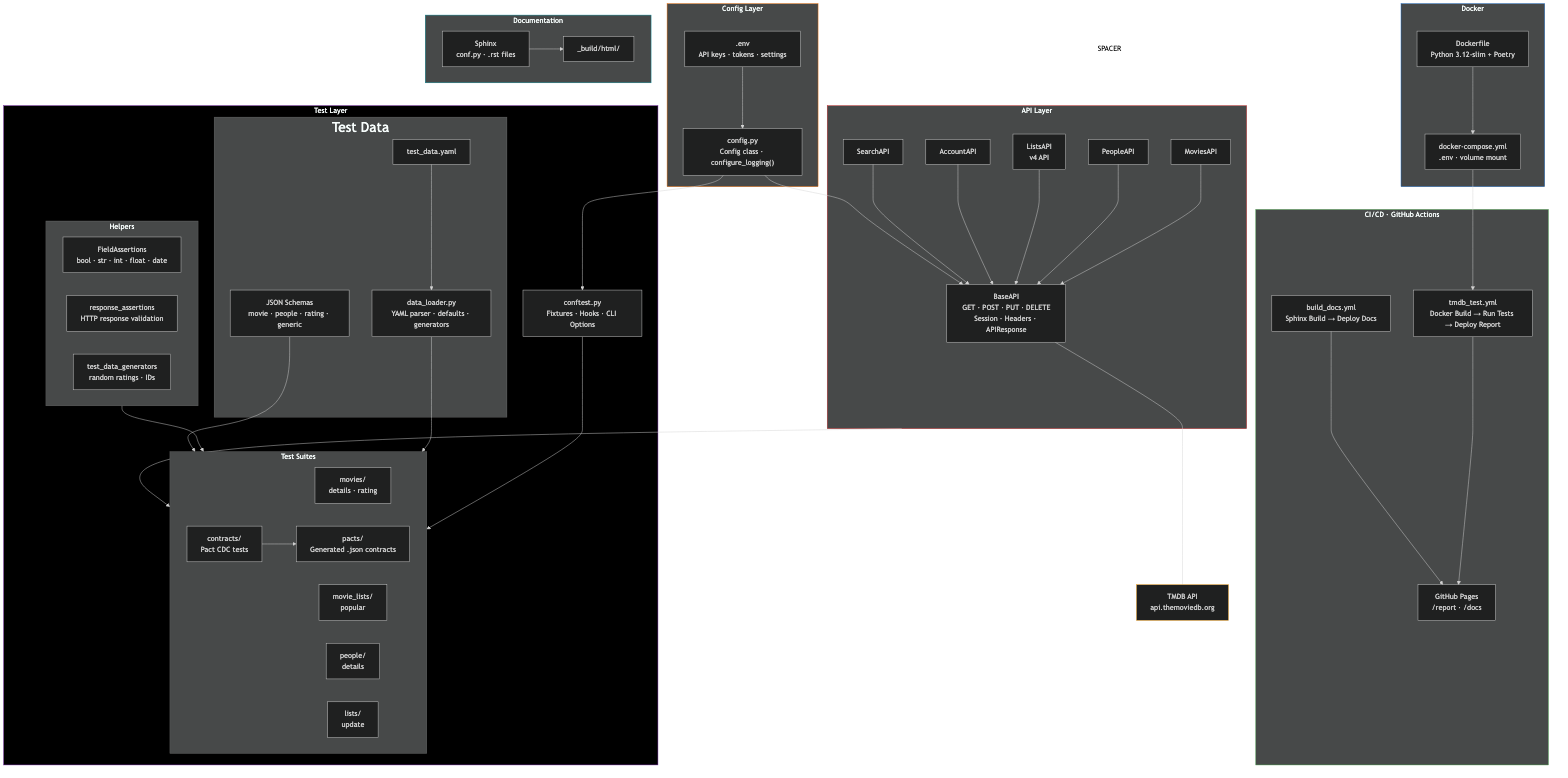
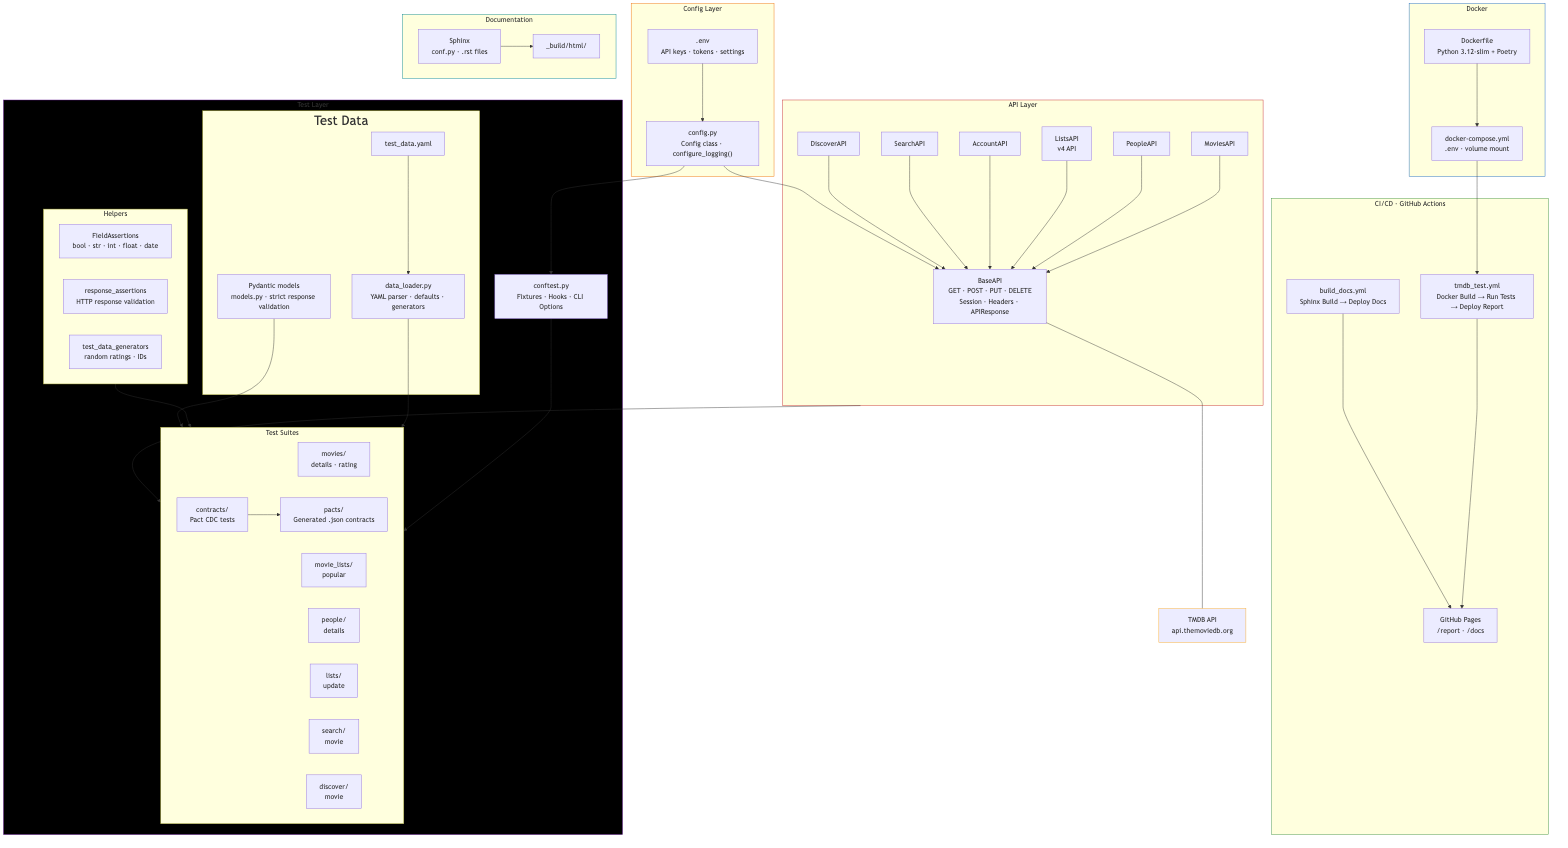
sync docs, diagram, and skills with discover endpoint
Add DiscoverAPI / discover_api / the discover test suite to CLAUDE.md,
the README feature list and project tree, the Sphinx api/tests pages,
and the architecture diagram (regenerated PNG).

Also close pre-existing doc gaps found during the sync: SearchAPI was
missing from the review-tests skill's endpoint-class list and the
search/ suite from the diagram; the diagram's stale "JSON Schemas"
label now reads Pydantic models, and the orphaned SPACER style that
rendered floating text is removed.

diff --git a/CLAUDE.md b/CLAUDE.md
@@ -43,12 +43,12 @@ All runtime config comes from environment variables loaded from `.env` (gitignor
 
 Layered, with a strict separation between the API client and the tests:
 
-**`api/`** — `BaseAPI` (`base_api.py`) owns the `requests.Session`, auth header (Bearer token from `Config`), URL construction (`{base_url}/{api_version}/{endpoint}`), and the four HTTP verbs. Every verb returns a standardized `APIResponse` dataclass (`.data`, `.status_code`, `.url`, `.elapsed_seconds`, etc.) — tests assert against this object, never a raw `requests.Response`. Endpoint classes (`MoviesAPI`, `PeopleAPI`, `ListsAPI`, `AccountAPI`, `SearchAPI`) subclass `BaseAPI`, set a `_sub_path` class attr, and add thin domain methods that call `self.get/post/put/delete`. To add an endpoint: add a method to the relevant class (or a new subclass) — do not put HTTP logic in tests.
+**`api/`** — `BaseAPI` (`base_api.py`) owns the `requests.Session`, auth header (Bearer token from `Config`), URL construction (`{base_url}/{api_version}/{endpoint}`), and the four HTTP verbs. Every verb returns a standardized `APIResponse` dataclass (`.data`, `.status_code`, `.url`, `.elapsed_seconds`, etc.) — tests assert against this object, never a raw `requests.Response`. Endpoint classes (`MoviesAPI`, `PeopleAPI`, `ListsAPI`, `AccountAPI`, `SearchAPI`, `DiscoverAPI`) subclass `BaseAPI`, set a `_sub_path` class attr, and add thin domain methods that call `self.get/post/put/delete`. To add an endpoint: add a method to the relevant class (or a new subclass) — do not put HTTP logic in tests.
 
 **`config/config.py`** — loads `.env`, exposes the `Config` class, and configures Loguru. `configure_logging()` is re-invoked from `pytest_configure` so the CLI log-level flag takes effect before test modules import.
 
 **`tests/conftest.py`** — the wiring hub. Provides:
-- Dedicated per-client fixtures — `movies_api`, `people_api`, `lists_api`, `search_api` — each returns a fresh, type-annotated endpoint client (e.g. `MoviesAPI()`); a test declares the one it needs in its signature. (`AccountAPI` has no fixture; it's used directly in `tests/helpers/test_data_generators.py`.)
+- Dedicated per-client fixtures — `movies_api`, `people_api`, `lists_api`, `search_api`, `discover_api` — each returns a fresh, type-annotated endpoint client (e.g. `MoviesAPI()`); a test declares the one it needs in its signature. (`AccountAPI` has no fixture; it's used directly in `tests/helpers/test_data_generators.py`.)
 - `load_schema` fixture: maps a schema name → a **Pydantic model** in `tests/schemas/models.py` (despite the JSON files in `tests/schemas/`, validation is done with `model.model_validate(response.data)`).
 - `_store_test_name` (autouse): injects `self._test_name` into class-based tests for assertion messages.
 - Hooks for AI failure analysis (`pytest_runtest_makereport`) and Allure/HTML report customization and `environment.properties` writing (`pytest_sessionfinish`).

diff --git a/README.md b/README.md
@@ -56,7 +56,7 @@ Each step is expanded in [Prerequisites](#prerequisites), [Installation](#instal
 - Data-driven testing with per-section YAML test data and cached dynamic generators
 - Automatic retries for flaky live-API latency via pytest-rerunfailures
 - Reusable HTTP response assertion helpers (status, method, content-type, response time)
-- Dedicated per-client pytest fixtures (`movies_api`, `people_api`, `lists_api`, `search_api`)
+- Dedicated per-client pytest fixtures (`movies_api`, `people_api`, `lists_api`, `search_api`, `discover_api`)
 - Structured logging with [Loguru](https://github.com/Delgan/loguru) (configurable level & file output)
 - Configurable environment-based settings via `.env`
 - AI-powered test failure analysis using open-source LLMs via [Groq](https://groq.com/) (opt-in)
@@ -227,7 +227,8 @@ mdb_api_layer/
 │   ├── people_api.py           # People endpoint implementation
 │   ├── lists_api.py            # Lists endpoint implementation (v4 API)
 │   ├── account_api.py          # Account endpoint implementation
-│   └── search_api.py           # Search endpoint implementation
+│   ├── search_api.py           # Search endpoint implementation
+│   └── discover_api.py         # Discover endpoint implementation
 ├── config/
 │   └── config.py               # Environment configuration & Loguru logging setup
 ├── tests/
@@ -261,6 +262,8 @@ mdb_api_layer/
 │   │   └── test_update.py      # Lists update tests (v4 API)
 │   ├── search/
 │   │   └── test_movie.py       # Movie search integration tests
+│   ├── discover/
+│   │   └── test_movie.py       # Movie discovery integration tests
 │   ├── pacts/
 │   │   └── *.json              # Generated Pact contract files
 │   └── schemas/

diff --git a/.claude/skills/review-tests/SKILL.md b/.claude/skills/review-tests/SKILL.md
@@ -47,7 +47,8 @@ access stays scoped to that section (`TEST_DATA["<section>"][...]`).
 ### 3. No HTTP logic in tests
 Tests must not call `requests`, build URLs, or set headers directly. HTTP
 belongs in `api/` — a thin domain method on the relevant endpoint class
-(`MoviesAPI`, `PeopleAPI`, `ListsAPI`, `AccountAPI`) that calls
+(`MoviesAPI`, `PeopleAPI`, `ListsAPI`, `AccountAPI`, `SearchAPI`,
+`DiscoverAPI`) that calls
 `self.get/post/put/delete` and returns an `APIResponse`. A new endpoint =
 a new method on the class (set `_sub_path`), not inline HTTP in a test.
 

diff --git a/docs/api.rst b/docs/api.rst
@@ -17,6 +17,14 @@ Base API
    :undoc-members:
    :show-inheritance:
 
+Discover API
+------------
+.. automodule:: api.discover_api
+   :no-index:
+   :members:
+   :undoc-members:
+   :show-inheritance:
+
 Lists API
 ---------
 .. automodule:: api.lists_api

diff --git a/docs/tests.rst b/docs/tests.rst
@@ -100,6 +100,13 @@ Search
    :undoc-members:
    :show-inheritance:
 
+Discover
+--------
+.. automodule:: tests.discover.test_movie
+   :members:
+   :undoc-members:
+   :show-inheritance:
+
 Schema
 ~~~~~~
 .. automodule:: tests.schemas.models
